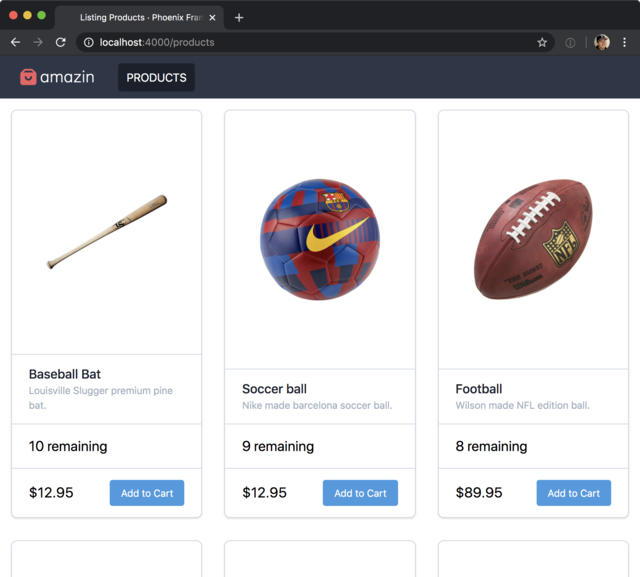
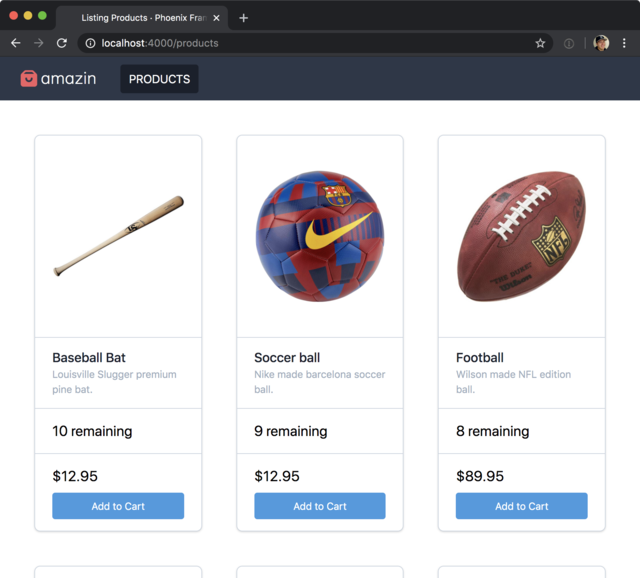
Fixing images

diff --git a/src/pages/index.js b/src/pages/index.js
@@ -12,7 +12,7 @@ export const pageQuery = graphql`
       sort: { fields: [frontmatter___date], order: DESC }
       filter: {
         fileAbsolutePath: { regex: "/blog/" }
-        frontmatter: { beta: { ne: true } }
+        frontmatter: { isPublished: { ne: false } }
       }
     ) {
       edges {

diff --git a/blog/phoenix-live-view-ecommerce-app/index.md b/blog/phoenix-live-view-ecommerce-app/index.md
@@ -15,7 +15,7 @@ banner: images/hero.jpg
 bannerDescription: World map with Currency
 bannerCreditName: Christine Roy
 bannerCreditUrl: https://unsplash.com/photos/ir5MHI6rPg0
-beta: true
+isPublished: false
 ---
 
 I've heard alot about [Phoenix LiveView](https://github.com/phoenixframework/phoenix_live_view) from co-workers and twitter,
@@ -287,10 +287,15 @@ with the tailwindcss container class. Now its time to make our product list pret
 Replace all of `lib/amazin_web/live/product_live/index.html.leex` with
 
 ```html
-<div class="grid grid-cols-3 gap-8 p-4">
+<div class="grid grid-cols-4 gap-12 p-12">
   <%= for product <- @products do %>
   <div class="flex flex-col bg-white border border-gray-400 shadow rounded-lg">
-    <img class="flex-grow p-12 object-contain" src="<%= product.thumbnail %>" />
+    <img
+      class="flex-grow p-6 object-contain"
+      src="<%= product.thumbnail %>"
+      title="<%= product.name %>"
+      alt="<%= product.name %>"
+    />
     <div class="px-6 py-4 border-t border-gray-400">
       <h3 class="text-lg leading-6 font-medium text-gray-900">
         <%= product.name %>
@@ -303,12 +308,12 @@ Replace all of `lib/amazin_web/live/product_live/index.html.leex` with
       <%= product.stock %> remaining
     </div>
     <div class="p-6 py-4 border-t border-gray-400 text-xl">
-      <div class="flex justify-between items-center">
+      <div class="flex flex-col items-left">
         <%= product.cost %>
         <button
           phx-click="add_to_cart"
           phx-value-upc="<%= product.upc %>"
-          class="focus:outline-none focus:shadow-outline text-sm bg-blue-500 hover:bg-blue-600 text-white py-2 px-4 rounded"
+          class="focus:outline-none focus:shadow-outline text-sm bg-blue-500 hover:bg-blue-600 text-white py-2 px-4 mt-2 rounded"
         >
           Add to Cart
         </button>
@@ -444,11 +449,10 @@ you should see a wonderful little grid of all your products 🥰
 
 ![Nice Finished Grid](/images/pretty-grid.png)
 
-## Take a breath
+## Live Updates
 
-![Take a breath](https://media.giphy.com/media/wOIhQl355kxTlgVfhI/giphy.gif "Breathing focus")
-
-Wow that was alot. Let's quickly recap before we move onto the next section.
+Now we want to make that "remaining" number update when users checkout
+and we're going to use [Phoenix.PubSub](https://hexdocs.pm/phoenix_pubsub/Phoenix.PubSub.html) to do it.
 
 ### Accomplishments 🏆
 
